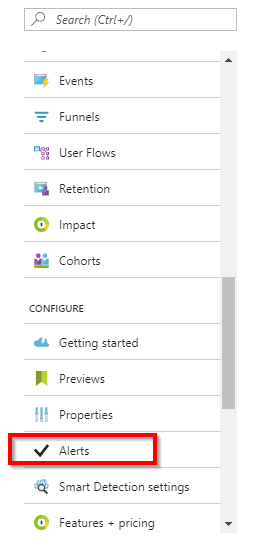
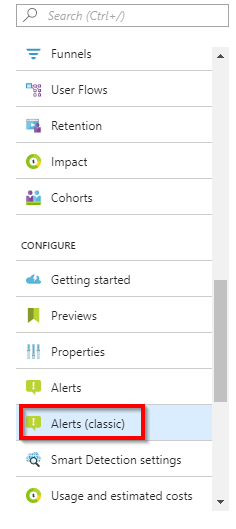
Updated the lab content with images and readme file

diff --git a/readme.md b/readme.md
@@ -23,7 +23,7 @@ If there are any active bugs, deployment will not happen to Canary environment a
 
 1. **Microsoft Azure Account:** You will need a valid and active azure account for the lab.
 
-1. You will need a **Visual Studio Team Services Account**. If you do not have one, you can sign up for free here- https://www.visualstudio.com/products/visual-studio-team-services-vs
+1. You will need a **Visual Studio Team Services Account**. If you do not have one, you can sign up for free [here](https://www.visualstudio.com/team-services/)
 
 1. You will need a Personal Access Token (PAT) to set up your project using the Demo Generator.Please see this [article]((https://docs.microsoft.com/en-us/vsts/accounts/use-personal-access-tokens-to-authenticate)) for instructions to create your token.
 
@@ -53,7 +53,7 @@ In this lab we will create two **Web Apps** in Azure to depict two environments 
 
     ![VSTS Demo Generator](images/key.png)
 
-1. Scroll down and click on **Alerts**. Let us add an alert for server exceptions. 
+1. Scroll down and click on **Alerts (classic)**. Let us add an alert for server exceptions. 
     
     ![VSTS Demo Generator](images/select_alerts.png)
 
@@ -61,7 +61,7 @@ In this lab we will create two **Web Apps** in Azure to depict two environments 
 
     ![VSTS Demo Generator](images/add_alert.png)
 
-1. Provide **Name** and select **Server Exceptions** from the dropdown under metric, observe **Condition**, **Threshold** and **Period**,  and click **OK**.
+1. Provide **Name** and select **Server Exceptions** from the dropdown under **Metric**, observe **Condition**, **Threshold** and **Period**,  and click **OK**.
 
     ![VSTS Demo Generator](images/alert_details.png)
 
@@ -69,7 +69,9 @@ In this lab we will create two **Web Apps** in Azure to depict two environments 
 
 ## Setting up Team Services project
 
-1. Use [VSTS Demo Data Generator](https://vstsdemobuildertest.azurewebsites.net/) to provision the project in VSTS account.
+   > Note: Currenctly VSTS Demo Data Generator 2 URL has been used to create the project and later we have to update the screenshots for the same.- 5th Apr 2018
+
+1. Use [VSTS Demo Generator](https://demogen.azurewebsites.net/?TemplateId=77375&Name=ReleaseGates) to provision the project in VSTS account.
 
    ![VSTS Demo Generator](images/1.png)
 
@@ -79,8 +81,8 @@ In this lab we will create two **Web Apps** in Azure to depict two environments 
 
    ![VSTS Demo Generator](images/demogenerator-create.png)
 
-   >Note: This URL will automatically select Release Gates template in the demo generator. If we want to try other projects, use this URL instead - https://vstsdemogenerator.azurewebsites.net/
-
+   >Note: The above URL will automatically select Release Gates template in the demo generator. If you want to try other projects, use this [URL](https://vstsdemogenerator.azurewebsites.net/) instead.
+   
 
 ## Exercise 1: Service Endpoint creation
 
@@ -95,14 +97,14 @@ Azure Resource Manager Service Endpoint: Defines and secures a connection to a M
 
    ![](images/service_endpoint.png) 
 
-1. Provide Connection name, select the Subscription from the dropdown and click on the OK button. This endpoint will be used to connect the VSTS and the Azure.
+1. Provide Connection name, select the Subscription and Resource Group from the dropdowns then click on the OK button. This endpoint will be used to connect VSTS and Azure.
 
    ![](images/endpoint_name.png)
 
 ## Exercise 2: Configure App-Insights 
 In this exercise we will update the code with instrumentation key generated in application insights. 
 
-1. Go to **Code** tab and navigate to path ""src/PartsUnlimitedWebsite/config.json"" and update app-insights instrumentation key in line **35**.
+1. Go to **Code** tab and navigate to path *"src/PartsUnlimitedWebsite/config.json"* and update app-insights instrumentation key in **line 35**.
 
    ![](images/update_key.png)
 
@@ -122,12 +124,12 @@ In this exercise we will update the code with instrumentation key generated in a
 
    ![VSTS Demo Generator](images/predeployment.png)
 
-1. You will see **Triggers**, **Pre-deployment approvers**, **Gates** & **Deployment queue settings**. Let us enable **Pre-deployment approvals** and **Gates**.
+1. You will see **Triggers**, **Pre-deployment approvals**, **Gates** and **Deployment queue settings**. Let us enable **Pre-deployment approvals** and **Gates**.
 
 
    ![VSTS Demo Generator](images/enable_gates.png)
 
-1. Add yourself as an **approver**. By default, user requesting release will not be allowed to approve. Let us uncheck this condition.
+1. Add yourself as an **Approver**. By default, user requesting release will not be allowed to approve. Let us uncheck this condition.
 
    ![VSTS Demo Generator](images/add_approver.png) 
 
@@ -136,24 +138,24 @@ In this exercise we will update the code with instrumentation key generated in a
 
    ![VSTS Demo Generator](images/querywi.png)
 
-1. Select **Bugs** under Query. As maximum threshold is set to 0, if this query returns any work Item, the release gate will fail.
+1. Select **Bugs** under Query. As maximum threshold is set to "0", if this query returns any work Item, the release gate will fail.
 
    ![VSTS Demo Generator](images/qwi.png)
 
-1. To allow gate functions to initialize and stabilize (it may take some time for them to begin returning accurate results), we configure a delay before the results are evaluated and used to determine if the deployment should be approved or rejected. choose short periods so that we can see the results reasonably quickly. The minimum values we can specify is 6 minutes timeout and 5 minutes sampling interval.
+1. To allow gate functions to initialize and stabilize (it may take some time for it to begin returning accurate results), we configure a delay before the results are evaluated and used to determine if the deployment should be approved or rejected. Choose short periods so that we can see the results reasonably quick. The minimum values we can specify for timeout is 6 minutes and 5 minutes sampling interval.
 
->In this example, we have set **time between re-evaluation** as 5 minutes, **delay** as 6 minutes and **timeout** 12 minutes. When the release is triggered, gates will validate the sample in 0th and 5th minute. However, no action will be taken based on outcome. The next sample will be validated in 10th minute. If the result is "**Pass**", Notification would be sent for approval. If the result is "**Fail**", the release would time-out after 12th minute.
-    
+   >In this example, we have set **Delay before evaluation** as *6 minutes*, **Time between re-evaluation of gates** as *5 minutes* and **Timeout after which gates fail** as *12 minutes*. When the release is triggered, gates will validate the sample in 0<sup>th</sup> and 5<sup>th</sup> minute. However, no action will be taken based on outcome. The next sample will be validated in 10<sup>th</sup> minute. If the result is "**Pass**", Notification will be sent for approval. If the result is "**Fail**", the release will time-out after 12<sup>th</sup> minute.
+
    ![VSTS Demo Generator](images/gate_duration.png)
 
 
 ### Enabling Post-deployment Gate.
 
-1. Click on Post-deployment conditions
+1. Click on **Post-deployment conditions**
 
    ![VSTS Demo Generator](images/edit_pipeline.png)
 
-1. Add **Query Azure Monitor Alerts** to the gate.
+1. Enable **Gates** and Add **Query Azure Monitor Alerts** to the gate.
 
    ![VSTS Demo Generator](images/qam.png)
 
@@ -161,35 +163,35 @@ In this exercise we will update the code with instrumentation key generated in a
 
    ![VSTS Demo Generator](images/monitor_details.png)
 
-1.  Open the Options for all gates section and specify the timeout and the sampling interval. For this example, 
+1.  Expand the **Evaluation options** and specify the timeout and the sampling interval. 
 
     ![VSTS Demo Generator](images/gates-05.png)
 
-    The sampling interval and timeout work together so that the gates will call their functions at suitable intervals, and reject the deployment if they don't all succeed during the same sampling interval and within the timeout period. 
+    The sampling interval and timeout work together so that the gates will call their functions at suitable intervals and reject the deployment if they don't succeed during the same sampling interval within the timeout period. 
 
 ### Update Release Task
 
-1. In this release definition, we have two environments viz. Canary Environment & Production. Click on Canary environment to update the tasks
+1. In this release definition, we have two environments viz. Canary Environment & Production. Click on Canary Environment to update the tasks
 
    ![VSTS Demo Generator](images/canary_env.png)
 
-1. Each stage has a single task which will publish the package to Azure Web app. Let us update the Azure web app details.
+1. Each environment has a single task which will publish the package to Azure Web App. Let us update the Azure web app details.
 
    ![VSTS Demo Generator](images/canary_release.png)
 
-1. Update the tasks in Prod environment and save.
+1. Update the tasks in Production environment and save.
 
    ![VSTS Demo Generator](images/prod_release.png)
 
 ### Create New Release
 
-1. Click on Release and Create release.
+1. Click on **Release** and **Create release**.
  
    ![VSTS Demo Generator](images/release.png)
 
    ![VSTS Demo Generator](images/release1.png)
 
-1. Go to Release logs to see the progress. We will see Query Work Items failing. Which indicates there are active bugs, these bugs should be closed in-order to proceed further. Next sampling time will be after 5 minutes.
+1. Go to Release logs to see the progress. We will see Query Work Items have failed in delay before evaluation, which indicates there are active bugs. These bugs should be closed in-order to proceed further. Next sampling time will be after 5 minutes.
 
    ![VSTS Demo Generator](images/log1.png) 
   
@@ -202,44 +204,46 @@ In this exercise we will update the code with instrumentation key generated in a
 
    ![VSTS Demo Generator](images/bugs.png)
 
-1. We can see a bug with title **Canary Server out of disk space** in **New** State. Assuming that Infrastructure team has fixed the space issue, let us change the state to **Closed** and **Save** it.
+1. We will see a bug with title "**Disk out of space in Canary Environment**" in **New** State.
+Assuming that Infrastructure team has fixed the disk space issue, let us change the state to **Closed** and **Save** it.
 
    ![VSTS Demo Generator](images/close_bug.png) 
 
-1. Go back to release logs. You will see the evaluation is passed. However still the gate is under delay period we should wait for next evaluation to proceed.
+1. Go back to release logs. You will see the evaluation has passed. However, still the gate is under delay period we should wait for next evaluation to proceed.
 
     ![VSTS Demo Generator](images/log2.png) 
 
-1. When the evaluation is successful, you will see the request for pre-deployment approval. Click on approve, to deploy in Canary environment
+1. When the evaluation is successful, you will see the request for pre-deployment approval. Click on **Approve** to deploy in Canary environment
 
     ![VSTS Demo Generator](images/pre_approval.png)
 
 
-1. Once the deployment to Canary environment is successful, we will see the post deployment gates in action, which will start monitoring the app for any exceptions. 
+1. Once the deployment to Canary environment is successful, we will see the post deployment gates in action, which will start monitoring the application for any exceptions. 
 
     ![VSTS Demo Generator](images/post_deployment.png)
 
-1. Let us quickly verify the application. Go to Azure web app, and click on **Browse**.
+1. Let us quickly verify the application. Go to Azure web app in 
+Azure Portal, and click on **Browse**.
 
    ![VSTS Demo Generator](images/browse.png)
 
-1. When we click on **More**, we will encounter an error. Do this couple of times for triggering alert.
+1. After application is launched, click on **More**. We will encounter with an error page. Do this couple of times for triggering alert.
 
-   >This error scenario just for the purpose of the lab and in real world, analysis of the alert and a resolution like “disabling a feature flag” or “upgrading the infra” would be realistic.
+   >This error scenario is just for the purpose of the lab and in real world, analysis of the alert and a resolution like “disabling a feature flag” or “upgrading the infra” would be realistic.
 
    ![VSTS Demo Generator](images/exception.png) 
    
-1. This exception is monitored by **App-Insights** which will trigger alert. In Azure Portal, we will be able to see the alert triggered.
+1. This exception is monitored by **Application Insights** which will trigger alert. In Azure Portal, we will be able to see the alert triggered.
 
    ![VSTS Demo Generator](images/alert_triggered.png)
    
-1. As there were exception, **Query Azure Monitor** gate will block the pipeline and prevents the deployment to **production**.
+1. As there was an exception, **Query Azure Monitor** gate will block the pipeline and prevents the deployment to **Production** Environment.
 
    ![VSTS Demo Generator](images/timeout.png)
   
 
-Gates ensure the release waits for us to react to feedback and fix any issues within a timeout period. Until the issues are fixed, the gate samples continue to fail and the deployment waits. Once the issues are fixed, the next sample from the gates becomes successful and the deployment automatically proceeds.
-If a new release is required to fix the issues, then we can cancel the deployment, and manually abandon the current release.
+Gates ensure the release waits for us to react to the feedback and fix any issues within a timeout period. Until the issues are fixed, the gate samples continue to fail and the deployment waits. Once the issues are fixed, the next sample from the gates becomes successful and the deployment automatically proceeds.
+If a new release is required to fix the issues, then we can cancel the deployment and manually abandon the current release.
 
 Release Gates will help the teams release applications with higher confidence and fewer manual inputs. 
     
